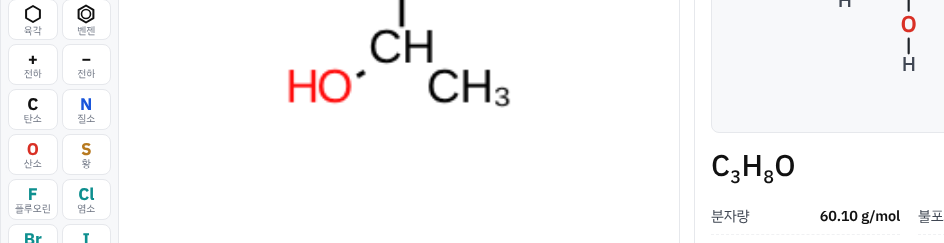
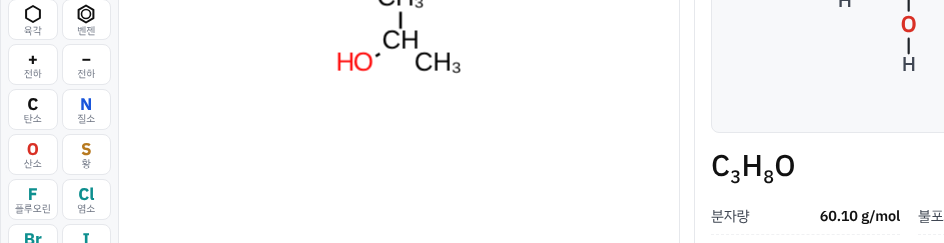
구조식 그리기: 확대 선명도 수정, 교과서식 의자형 틀, 고리 뒤집기 상하 반전
- devicePixelRatio 를 라이브러리가 읽기 전에(일반 스크립트) 배율만큼 높여
  실제 픽셀 해상도로 그리도록 수정 — 이전에는 라이브러리 로드 뒤에 바꿔 효과가 없었음
  (1x·1.25x·1.5x 화면 모두 캔버스 해상도 = 화면 픽셀 확인)
- 도구 모음 클릭 좌표를 CSS 픽셀 기준으로 되돌림
- 의자형: 교과서 그림과 같은 틀(발 왼쪽 아래, 머리 오른쪽 위, 마주 보는 결합 평행)
- 고리 뒤집기: 치환기 유무와 관계없이 위·아래 원자가 바뀐 모양(상하 반전)으로 그림

Claude-Session: https://claude.ai/code/session_01YFfKQJw1u1SaPAgNkoRP8G

Changed region(s): [[0.3072, 0.0, 0.553, 0.4609]]

diff --git a/labs/chemistry/organic-structure.html b/labs/chemistry/organic-structure.html
@@ -170,6 +170,12 @@
         </section>
     </main>
 
+    <script>
+        /* 편집기 확대 배율. 편집기는 캔버스 해상도를 devicePixelRatio 로 정하고 그 값을 불러올 때 한 번 읽으므로,
+           라이브러리를 읽기 전에 배율만큼 높여 두어야 확대해도 선명합니다. */
+        window.VLAB_EDITOR_ZOOM = 1.8;
+        (function () { const real = window.devicePixelRatio || 1; Object.defineProperty(window, 'devicePixelRatio', { get: () => real * window.VLAB_EDITOR_ZOOM, configurable: true }); })();
+    </script>
     <script type="module">
         import OCL from '../../assets/vendor/openchemlib/openchemlib.js';
 
@@ -373,15 +379,22 @@
         let confKind = 'chair', ringFlip = false;
         /* 교과서식 틀 좌표: 의자형은 서로 평행한 세 쌍의 결합, 축방향은 수직, 적도방향은 두 칸 건너 결합과 평행하게 바깥으로 */
         function conformerSvg(kind, subLabel) {
-            const W = 330, Hh = 230, ox = 70, oy = 55;
-            const chair = [[10, 75], [60, 100], [110, 85], [160, 55], [110, 30], [60, 45]];
+            const W = 330, Hh = 230;
+            /* 의자형 틀: C1(발, 왼쪽 아래) → C2 → C3 → C4(머리, 오른쪽 위) → C5 → C6. 마주 보는 결합끼리 평행 (a, b, c 벡터) */
+            const a = [34, -44], bv = [54, 8], c = [40, -16], C1 = [0, 50];
+            let chair = [C1, [C1[0] + a[0], C1[1] + a[1]]]; chair.push([chair[1][0] + bv[0], chair[1][1] + bv[1]]); chair.push([chair[2][0] + c[0], chair[2][1] + c[1]]);
+            chair.push([chair[3][0] - a[0], chair[3][1] - a[1]]); chair.push([chair[4][0] - bv[0], chair[4][1] - bv[1]]);
+            chair = chair.map(([x, y]) => [x * 1.45, y * 1.45]);
+            if (kind === 'chair' && ringFlip) chair = chair.map(([x, y]) => [x, -y]);                     // 고리 뒤집기 = 위·아래 원자가 서로 바뀜 (상하 반전)
             const boat = [[10, 60], [60, 100], [120, 100], [170, 60], [120, 60], [60, 60]];
-            const P = (kind === 'chair' ? chair : boat).map(([x, y]) => [x + ox, y + oy]);
+            const raw = kind === 'chair' ? chair : boat;
+            const mx = (Math.min(...raw.map(p => p[0])) + Math.max(...raw.map(p => p[0]))) / 2, my = (Math.min(...raw.map(p => p[1])) + Math.max(...raw.map(p => p[1]))) / 2;
+            const P = raw.map(([x, y]) => [x - mx + W / 2, y - my + Hh / 2]);
             const cx = P.reduce((t, p) => t + p[0], 0) / 6, cy = P.reduce((t, p) => t + p[1], 0) / 6;
             const sub = (a, b) => [a[0] - b[0], a[1] - b[1]], norm = v => { const l = Math.hypot(v[0], v[1]); return [v[0] / l, v[1] / l]; };
             const bonds = [];                                   // {i, dir:[dx,dy], len, kind:'ax'|'eq'|'fp'|'bs'}
             for (let i = 0; i < 6; i++) {
-                const up = kind === 'chair' ? (i % 2 === 1) : (i === 0 || i === 3);   // 의자형: 홀수 번째가 '위' 원자. 배형: 양 끝이 위
+                const up = kind === 'chair' ? ((i % 2 === 1) !== ringFlip) : (i === 0 || i === 3);   // 의자형: 홀수 번째가 '위' 원자 (뒤집으면 반대). 배형: 양 끝이 위
                 if (kind === 'chair') {
                     const e = norm(sub(P[(i + 2) % 6], P[(i + 1) % 6]));           // 두 칸 건너 결합과 평행
                     const out = sub(P[i], [cx, cy]); const sgn = (e[0] * out[0] + e[1] * out[1]) >= 0 ? 1 : -1;
@@ -398,11 +411,11 @@
             }
             const col = { ax: '#D93025', eq: '#1A56DB', fp: '#E07B00', bs: '#6B7280' };
             let s = '';
-            P.forEach((p, i) => { const q = P[(i + 1) % 6]; s += `<line x1="${p[0]}" y1="${p[1]}" x2="${q[0]}" y2="${q[1]}" stroke="#1F2328" stroke-width="${kind === 'chair' && (i === 1 || i === 0) ? 3.4 : 2.4}" stroke-linecap="round"/>`; });
+            P.forEach((p, i) => { const q = P[(i + 1) % 6]; const front = kind === 'chair' && ((!ringFlip && (i === 5 || i === 4)) || (ringFlip && (i === 0 || i === 1)));   // 앞쪽 결합은 굵게
+                s += `<line x1="${p[0]}" y1="${p[1]}" x2="${q[0]}" y2="${q[1]}" stroke="#1F2328" stroke-width="${front ? 3.6 : 2.4}" stroke-linecap="round"/>`; });
             bonds.forEach(b => {
                 let text = 'H', k = b.kind;
-                if (subLabel && b.i === 0 && ((k === 'eq') !== ringFlip)) { text = subLabel; }   // 치환기는 C1 에, 기본 적도방향 (뒤집으면 축방향)
-                if (subLabel && b.i === 0 && ((k === 'ax') !== ringFlip) === false) {}
+                if (subLabel && b.i === 0 && ((k === 'eq') !== ringFlip)) text = subLabel;   // 치환기는 C1 에, 기본 적도방향 (뒤집으면 축방향)
                 const d = norm(b.dir), x1 = P[b.i][0], y1 = P[b.i][1], x2 = x1 + d[0] * b.len, y2 = y1 + d[1] * b.len;
                 const isSub = text !== 'H';
                 s += `<line x1="${x1}" y1="${y1}" x2="${x2}" y2="${y2}" stroke="${isSub ? '#111' : col[k]}" stroke-width="${isSub ? 2.6 : 1.8}"/>`;
@@ -573,7 +586,7 @@
         /* 편집기는 결합 하나를 항상 24 px 로 그리므로(확대 기능 없음) 편집기 영역을 CSS zoom 으로 ZOOM 배 키웁니다.
          * 편집기가 포인터 좌표를 화면 픽셀 그대로 읽기 때문에, 편집기로 가는 포인터 이벤트는 좌표를 1/ZOOM 로 되돌린
          * 합성 이벤트로 바꿔 전달합니다. (도구 모음 버튼이 보내는 합성 이벤트는 __raw 표시로 그대로 통과) */
-        const ZOOM = 1.8;
+        const ZOOM = window.VLAB_EDITOR_ZOOM || 1.8;
         let REMAP = ZOOM, edRoot = null, edWrap = null, dragging = false;
         function makeWrap() {                                // 편집기를 담을 확대 래퍼 (호스트의 도구 모음 영역 오른쪽을 채움)
             edWrap = document.createElement('div'); edWrap.className = 'oc-wrap';
@@ -621,7 +634,7 @@
         window.addEventListener('resize', e => { if (!edWrap || e.__fromCal) return; clearTimeout(calT); calT = setTimeout(calibrate, 120); });
         function pickTool(row, col) {
             const tb = edRoot && edRoot.shadowRoot.querySelector('canvas'); if (!tb) return;
-            const r = tb.getBoundingClientRect(), x = r.left + (13 + col * 22) * ZOOM, y = r.top + (13 + row * 21) * ZOOM;   // devicePixelRatio 를 ZOOM 배로 올렸으므로
+            const r = tb.getBoundingClientRect(), x = r.left + 13 + col * 22, y = r.top + 13 + row * 21;   // 도구 모음 캔버스의 CSS 픽셀 좌표 (2열 × 17행, 22 × 21 px)
             ['pointerdown', 'pointerup'].forEach(type => { const ev = new PointerEvent(type, { bubbles: true, cancelable: true, composed: true, clientX: x, clientY: y, pointerId: 1, pointerType: 'mouse', isPrimary: true, button: 0, buttons: type === 'pointerdown' ? 1 : 0 }); ev.__raw = true; tb.dispatchEvent(ev); });
         }
 
@@ -692,8 +705,6 @@
         try {
             await OCL.Resources.registerFromUrl('../../assets/vendor/openchemlib/resources.json');
             host.querySelector('.ocl-loading').remove();
-            const realDPR = window.devicePixelRatio || 1;   // 편집기는 캔버스 해상도를 devicePixelRatio 로 정하므로, 확대 배율만큼 높여 선명하게
-            Object.defineProperty(window, 'devicePixelRatio', { get: () => realDPR * ZOOM, configurable: true });
             ed = new OCL.CanvasEditor(makeWrap());
             ed.setOnChangeListener(update);
             hideNativeToolbar(); calibrate(); buildTools(); toolsEl.querySelector('[data-id="bond"]').classList.add('on');
